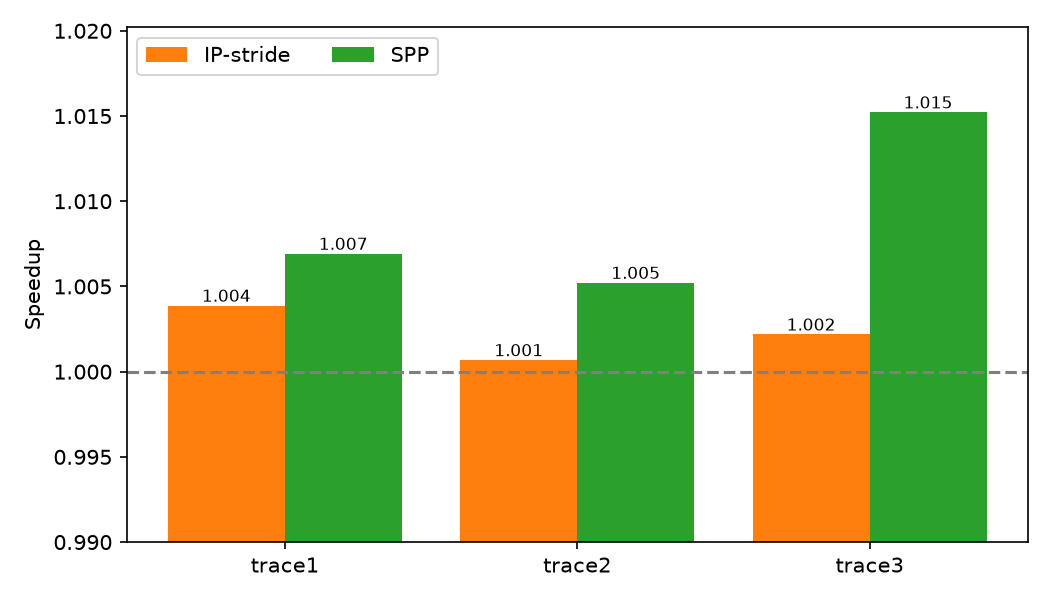
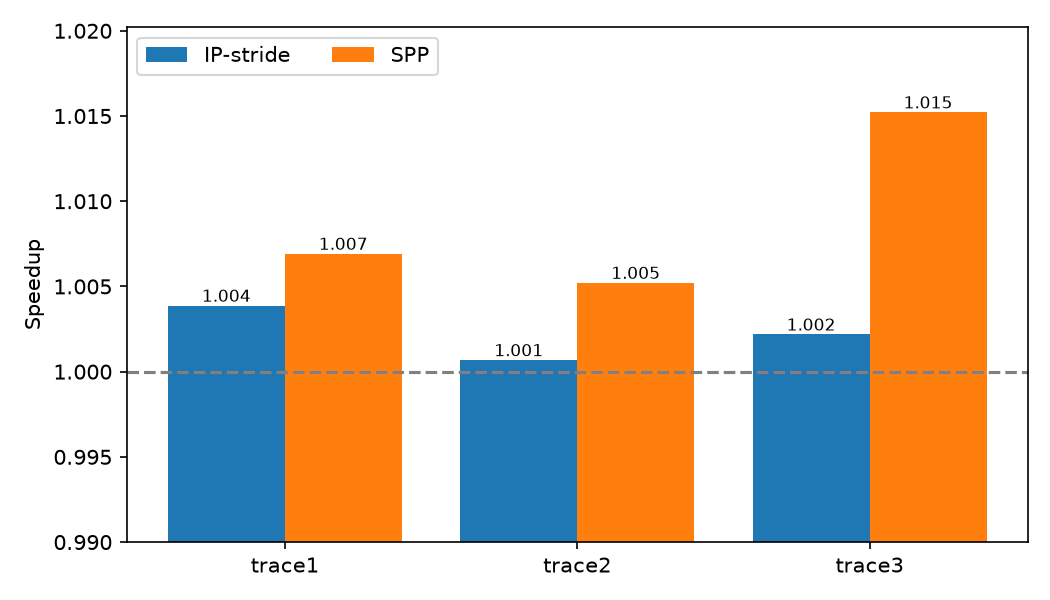
Task 3

diff --git a/scripts/task3_results.py b/scripts/task3_results.py
@@ -1,0 +1,89 @@
+# prints the task 3 table and makes the plots
+# no prefetcher and spp come from results/task1, dynamic i-rrip from results/task2b
+# usage: python3 scripts/task3_results.py
+
+import re
+import matplotlib
+matplotlib.use("Agg")
+import matplotlib.pyplot as plt
+
+DIR = "results/task3"
+traces = ["trace1", "trace2", "trace3"]
+files = {
+    "baseline": "results/task1/{}_baseline.txt",
+    "spp": "results/task1/{}_spp.txt",
+    "dyn": "results/task2b/{}_dyn_0.15.txt",
+    "spp_dyn": DIR + "/{}_spp_dyn.txt",
+}
+names = {"baseline": "No prefetcher + LRU", "spp": "SPP + LRU", "dyn": "No prefetcher + Dynamic I-RRIP", "spp_dyn": "SPP + Dynamic I-RRIP"}
+
+
+def read(path):
+    text = open(path).read()
+    l1d = re.search(r"L1D LOAD\s+ACCESS:\s+\d+\s+HIT:\s+\d+\s+MISS:\s+(\d+).*MPKI: ([\d.]+)", text)
+    acc = re.search(r"L1D USEFUL LOAD PREFETCHES:.*ACCURACY:\s+(\S+)", text).group(1)
+    return {
+        "ipc": float(re.findall(r"CPU 0 cumulative IPC: ([\d.]+)", text)[-1]),
+        "l1d_misses": int(l1d.group(1)),
+        "l1d_mpki": float(l1d.group(2)),
+        "accuracy": 0.0 if "nan" in acc else float(acc),
+        "l2_mpki": float(re.search(r"L2C LOAD\s+ACCESS:.*MPKI: ([\d.]+)", text).group(1)),
+        "l2_instr_mpki": float(re.search(r"L2C INSTRUCTION LOAD MPKI: ([\d.]+)", text).group(1)),
+        "l2_data_mpki": float(re.search(r"L2C DATA LOAD MPKI: ([\d.]+)", text).group(1)),
+    }
+
+
+stats = {}
+for t in traces:
+    stats[t] = {c: read(f.format(t)) for c, f in files.items()}
+    base = stats[t]["baseline"]
+    for s in stats[t].values():
+        s["speedup"] = s["ipc"] / base["ipc"]
+        s["coverage"] = 100 * (base["l1d_misses"] - s["l1d_misses"]) / base["l1d_misses"]
+
+print("| Trace | Config | IPC | Speedup | Accuracy (%) | Coverage (%) | L1D MPKI | L2C MPKI | L2 Instr MPKI | L2 Data MPKI |")
+print("|---|---|---|---|---|---|---|---|---|---|")
+for t in traces:
+    for c in files:
+        s = stats[t][c]
+        if c in ["spp", "spp_dyn"]:
+            acc, cov = "%.2f" % s["accuracy"], "%.2f" % s["coverage"]
+        else:
+            acc, cov = "-", "-"
+        print("| %s | %s | %.4f | %.4f | %s | %s | %.3f | %.3f | %.3f | %.3f |" % (t, names[c], s["ipc"], s["speedup"], acc, cov,
+              s["l1d_mpki"], s["l2_mpki"], s["l2_instr_mpki"], s["l2_data_mpki"]))
+
+
+def plot(configs, metric, ylabel, fname):
+    width = 0.8 / len(configs)
+    fig, ax = plt.subplots(figsize=(8, 4))
+    for i, c in enumerate(configs):
+        xs = [j + (i - (len(configs) - 1) / 2) * width for j in range(len(traces))]
+        bars = ax.bar(xs, [stats[t][c][metric] for t in traces], width, label=names[c])
+        ax.bar_label(bars, fmt="%.4f" if metric == "speedup" else "%.2f", fontsize=7)
+
+    ax.set_xticks(range(len(traces)))
+    ax.set_xticklabels(traces)
+    ax.set_ylabel(ylabel)
+
+    if metric == "speedup":
+        # speedups are close to 1 so zoom in
+        v = [stats[t][c]["speedup"] for t in traces for c in configs]
+        ax.set_ylim(min(v) - 0.01, max(v) + 0.01)
+        ax.axhline(1.0, color="gray", linestyle="--")
+    else:
+        ax.set_ylim(0, ax.get_ylim()[1] * 1.15)
+
+    ax.legend(loc="upper left", ncol=2, fontsize=8)
+    fig.tight_layout()
+    fig.savefig(f"{DIR}/{fname}", dpi=150)
+    plt.close(fig)
+
+
+plot(["spp", "dyn", "spp_dyn"], "speedup", "Speedup over no prefetcher + LRU", "speedup.png")
+plot(["spp", "spp_dyn"], "accuracy", "Prefetch accuracy (%)", "accuracy.png")
+plot(["spp", "spp_dyn"], "coverage", "L1D coverage (%)", "coverage.png")
+plot(list(files), "l1d_mpki", "L1D load MPKI", "l1d_mpki.png")
+plot(list(files), "l2_mpki", "L2C load MPKI", "l2c_mpki.png")
+plot(list(files), "l2_instr_mpki", "L2 instruction load MPKI", "l2_instr_mpki.png")
+plot(list(files), "l2_data_mpki", "L2 data load MPKI", "l2_data_mpki.png")

diff --git a/scripts/task1_results.py b/scripts/task1_results.py
@@ -10,11 +10,10 @@ DIR = "results/task1"
 traces = ["trace1", "trace2", "trace3"]
 configs = ["baseline", "ipstride", "spp"]
 names = {"baseline": "No prefetcher", "ipstride": "IP-stride", "spp": "SPP"}
-colors = {"baseline": "tab:blue", "ipstride": "tab:orange", "spp": "tab:green"}
 
 
-def read_stats(trace, config):
-    text = open(f"{DIR}/{trace}_{config}.txt").read()
+def read(path):
+    text = open(path).read()
     ipc = float(re.findall(r"CPU 0 cumulative IPC: ([\d.]+)", text)[-1])
     load = re.search(r"L1D LOAD\s+ACCESS:\s+\d+\s+HIT:\s+\d+\s+MISS:\s+(\d+).*MPKI: ([\d.]+)", text)
     acc = re.search(r"L1D USEFUL LOAD PREFETCHES:.*ACCURACY:\s+(\S+)", text).group(1)
@@ -30,7 +29,7 @@ stats = {}
 for t in traces:
     stats[t] = {}
     for c in configs:
-        stats[t][c] = read_stats(t, c)
+        stats[t][c] = read(f"{DIR}/{t}_{c}.txt")
 
     base = stats[t]["baseline"]
     for c in configs:
@@ -50,13 +49,13 @@ for t in traces:
         print("| %s | %s | %.4f | %.4f | %.3f | %s | %s |" % (t, names[c], s["ipc"], s["speedup"], s["mpki"], acc, cov))
 
 
-def plot(metric, cfgs, ylabel, fname):
-    width = 0.8 / len(cfgs)
+def plot(configs, metric, ylabel, fname):
+    width = 0.8 / len(configs)
     fig, ax = plt.subplots(figsize=(7, 4))
-    for i, c in enumerate(cfgs):
-        xs = [j + (i - (len(cfgs) - 1) / 2) * width for j in range(len(traces))]
+    for i, c in enumerate(configs):
+        xs = [j + (i - (len(configs) - 1) / 2) * width for j in range(len(traces))]
         ys = [stats[t][c][metric] for t in traces]
-        bars = ax.bar(xs, ys, width, label=names[c], color=colors[c])
+        bars = ax.bar(xs, ys, width, label=names[c])
         ax.bar_label(bars, fmt="%.3f" if metric == "speedup" else "%.2f", fontsize=8)
 
     ax.set_xticks(range(len(traces)))
@@ -65,18 +64,18 @@ def plot(metric, cfgs, ylabel, fname):
 
     if metric == "speedup":
         # all speedups are close to 1 so zoom in
-        ax.set_ylim(0.99, max(stats[t][c]["speedup"] for t in traces for c in cfgs) + 0.005)
+        ax.set_ylim(0.99, max(stats[t][c]["speedup"] for t in traces for c in configs) + 0.005)
         ax.axhline(1.0, color="gray", linestyle="--")
     else:
         ax.set_ylim(0, ax.get_ylim()[1] * 1.15)
 
-    ax.legend(loc="upper left", ncol=len(cfgs))
+    ax.legend(loc="upper left", ncol=len(configs))
     fig.tight_layout()
     fig.savefig(f"{DIR}/{fname}", dpi=150)
     plt.close(fig)
 
 
-plot("speedup", ["ipstride", "spp"], "Speedup", "speedup.png")
-plot("mpki", configs, "L1D load MPKI", "mpki.png")
-plot("accuracy", ["ipstride", "spp"], "Prefetch accuracy (%)", "accuracy.png")
-plot("coverage", ["ipstride", "spp"], "L1D coverage (%)", "coverage.png")
+plot(["ipstride", "spp"], "speedup", "Speedup", "speedup.png")
+plot(configs, "mpki", "L1D load MPKI", "mpki.png")
+plot(["ipstride", "spp"], "accuracy", "Prefetch accuracy (%)", "accuracy.png")
+plot(["ipstride", "spp"], "coverage", "L1D coverage (%)", "coverage.png")

diff --git a/scripts/task2a_results.py b/scripts/task2a_results.py
@@ -6,15 +6,14 @@ import matplotlib
 matplotlib.use("Agg")
 import matplotlib.pyplot as plt
 
-DIR = "results/task2"
+DIR = "results/task2a"
 traces = ["trace1", "trace2", "trace3"]
 configs = ["lru", "rrip", "irrip"]
 names = {"lru": "LRU", "rrip": "SRRIP", "irrip": "I-RRIP"}
-colors = {"lru": "tab:blue", "rrip": "tab:orange", "irrip": "tab:green"}
 
 
-def read_stats(trace, config):
-    text = open(f"{DIR}/{trace}_{config}.txt").read()
+def read(path):
+    text = open(path).read()
     return {
         "ipc": float(re.findall(r"CPU 0 cumulative IPC: ([\d.]+)", text)[-1]),
         "l2_mpki": float(re.search(r"L2C LOAD\s+ACCESS:.*MPKI: ([\d.]+)", text).group(1)),
@@ -27,7 +26,7 @@ stats = {}
 for t in traces:
     stats[t] = {}
     for c in configs:
-        stats[t][c] = read_stats(t, c)
+        stats[t][c] = read(f"{DIR}/{t}_{c}.txt")
     for c in configs:
         stats[t][c]["speedup"] = stats[t][c]["ipc"] / stats[t]["lru"]["ipc"]
 
@@ -39,13 +38,13 @@ for t in traces:
         print("| %s | %s | %.4f | %.4f | %.3f | %.3f | %.3f |" % (t, names[c], s["ipc"], s["speedup"], s["l2_mpki"], s["l2_instr_mpki"], s["l2_data_mpki"]))
 
 
-def plot(metric, ylabel, fname):
+def plot(configs, metric, ylabel, fname):
     width = 0.8 / len(configs)
     fig, ax = plt.subplots(figsize=(7, 4))
     for i, c in enumerate(configs):
         xs = [j + (i - (len(configs) - 1) / 2) * width for j in range(len(traces))]
         ys = [stats[t][c][metric] for t in traces]
-        bars = ax.bar(xs, ys, width, label=names[c], color=colors[c])
+        bars = ax.bar(xs, ys, width, label=names[c])
         ax.bar_label(bars, fmt="%.3f" if metric == "speedup" else "%.2f", fontsize=8)
 
     ax.set_xticks(range(len(traces)))
@@ -67,7 +66,7 @@ def plot(metric, ylabel, fname):
     plt.close(fig)
 
 
-plot("speedup", "Speedup over LRU", "speedup.png")
-plot("l2_mpki", "L2C load MPKI", "l2c_mpki.png")
-plot("l2_instr_mpki", "L2 instruction load MPKI", "l2_instr_mpki.png")
-plot("l2_data_mpki", "L2 data load MPKI", "l2_data_mpki.png")
+plot(configs, "speedup", "Speedup over LRU", "speedup.png")
+plot(configs, "l2_mpki", "L2C load MPKI", "l2c_mpki.png")
+plot(configs, "l2_instr_mpki", "L2 instruction load MPKI", "l2_instr_mpki.png")
+plot(configs, "l2_data_mpki", "L2 data load MPKI", "l2_data_mpki.png")

diff --git a/scripts/task2b_results.py b/scripts/task2b_results.py
@@ -1,5 +1,5 @@
 # prints the task 2b table and makes the plots
-# lru / srrip / i-rrip come from results/task2, dynamic i-rrip from results/task2b
+# lru / srrip / i-rrip come from results/task2a, dynamic i-rrip from results/task2b
 # usage: python3 scripts/task2b_results.py
 
 import re
@@ -21,6 +21,7 @@ def read(path):
     text = open(path).read()
     return {
         "ipc": float(re.findall(r"CPU 0 cumulative IPC: ([\d.]+)", text)[-1]),
+        "l2_mpki": float(re.search(r"L2C LOAD\s+ACCESS:.*MPKI: ([\d.]+)", text).group(1)),
         "l2_instr_mpki": float(re.search(r"L2C INSTRUCTION LOAD MPKI: ([\d.]+)", text).group(1)),
         "l2_data_mpki": float(re.search(r"L2C DATA LOAD MPKI: ([\d.]+)", text).group(1)),
     }
@@ -30,16 +31,16 @@ stats = {}
 for t in traces:
     stats[t] = {}
     for c in names:
-        d = "results/task2" if c in ["lru", "rrip", "irrip"] else DIR
+        d = "results/task2a" if c in ["lru", "rrip", "irrip"] else DIR
         stats[t][c] = read(f"{d}/{t}_{c}.txt")
         stats[t][c]["speedup"] = stats[t][c]["ipc"] / stats[t]["lru"]["ipc"]
 
-print("| Trace | Policy | IPC | Speedup | L2 Instr MPKI | L2 Data MPKI |")
-print("|---|---|---|---|---|---|")
+print("| Trace | Policy | IPC | Speedup | L2C Load MPKI | L2 Instr MPKI | L2 Data MPKI |")
+print("|---|---|---|---|---|---|---|")
 for t in traces:
     for c in names:
         s = stats[t][c]
-        print("| %s | %s | %.4f | %.4f | %.3f | %.3f |" % (t, names[c], s["ipc"], s["speedup"], s["l2_instr_mpki"], s["l2_data_mpki"]))
+        print("| %s | %s | %.4f | %.4f | %.3f | %.3f | %.3f |" % (t, names[c], s["ipc"], s["speedup"], s["l2_mpki"], s["l2_instr_mpki"], s["l2_data_mpki"]))
 
 
 def plot(configs, metric, ylabel, fname):
@@ -74,5 +75,6 @@ plot(dyn, "l2_instr_mpki", "L2 instruction load MPKI", "sensitivity_l2_instr_mpk
 
 compare = ["lru", "rrip", "irrip", "dyn_" + BEST]
 plot(compare, "speedup", "Speedup over LRU", "speedup.png")
+plot(compare, "l2_mpki", "L2C load MPKI", "l2c_mpki.png")
 plot(compare, "l2_instr_mpki", "L2 instruction load MPKI", "l2_instr_mpki.png")
 plot(compare, "l2_data_mpki", "L2 data load MPKI", "l2_data_mpki.png")
